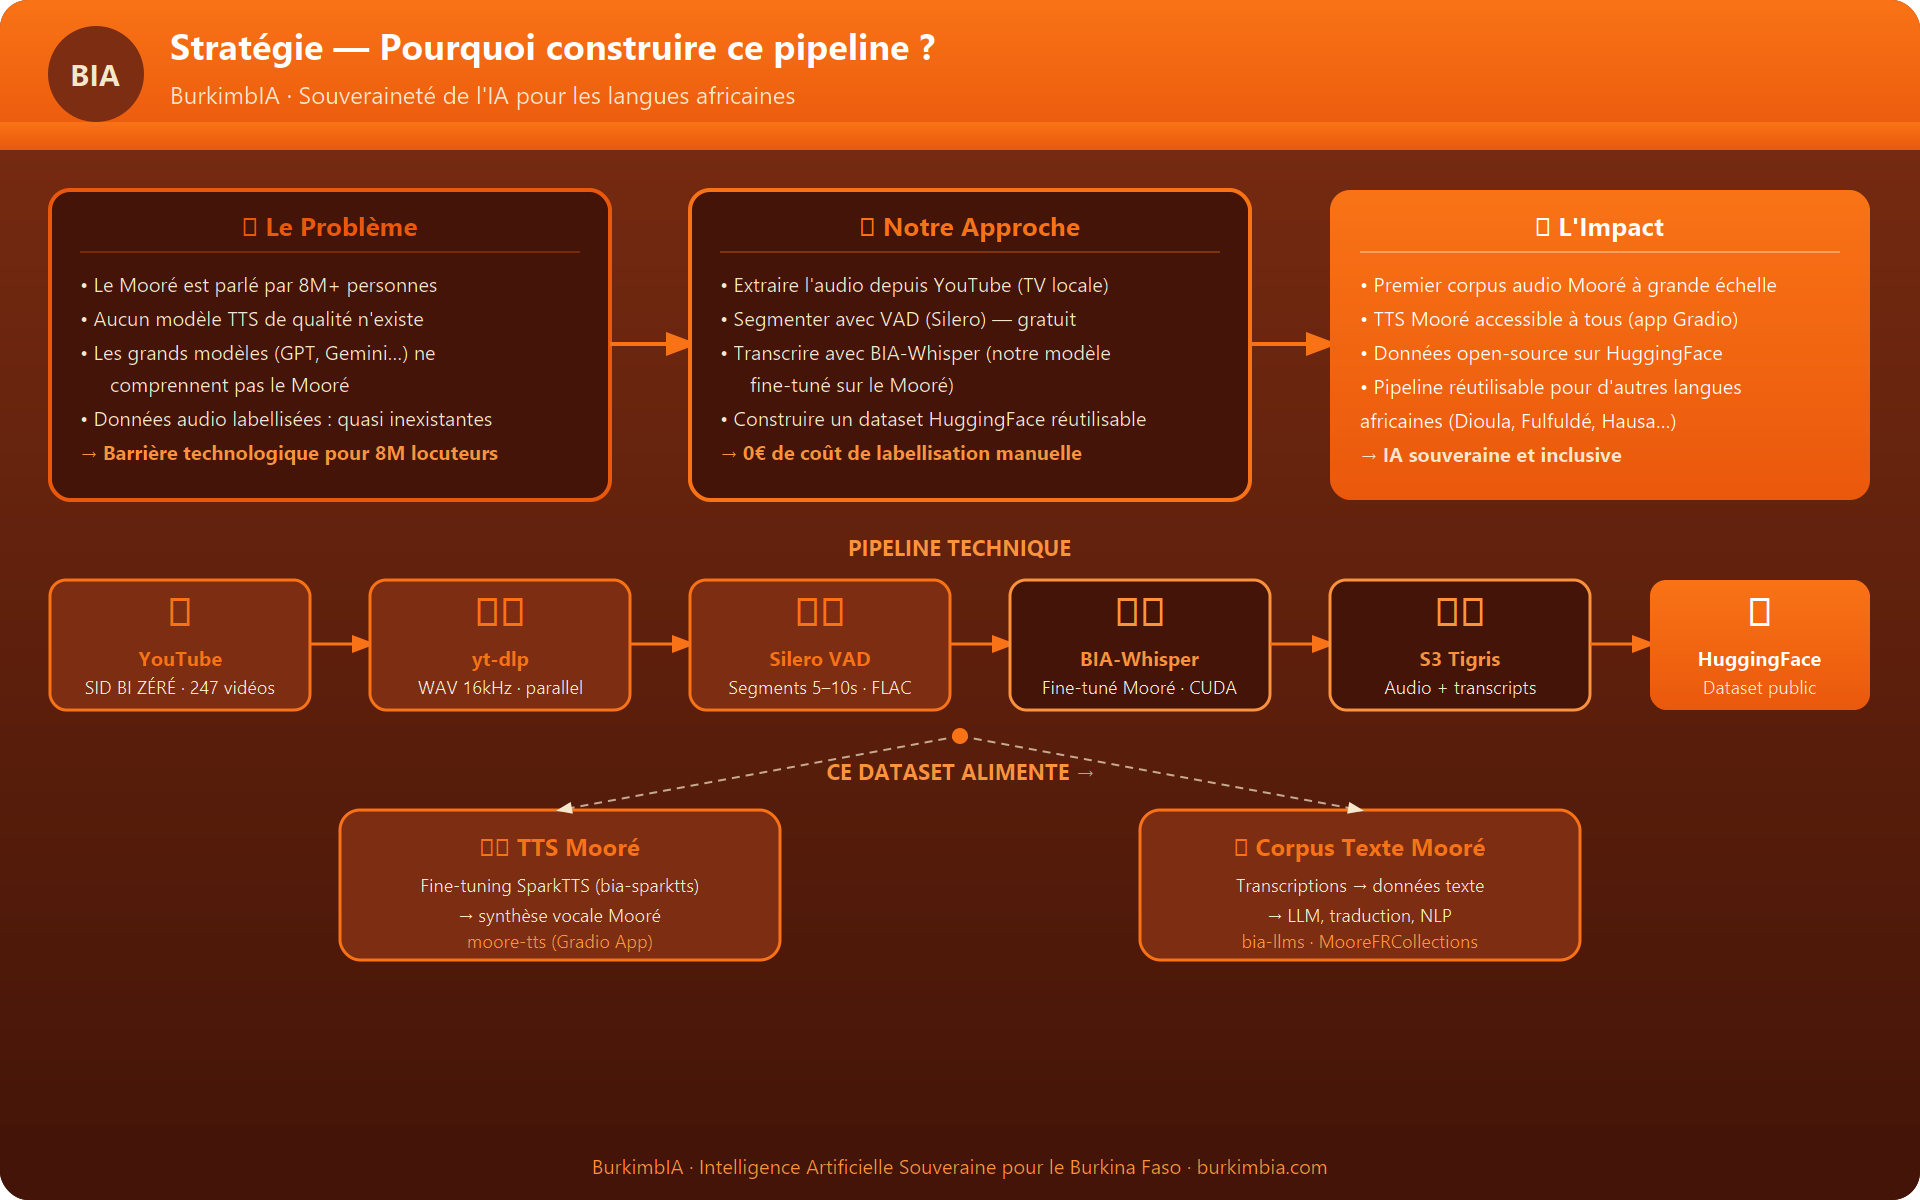
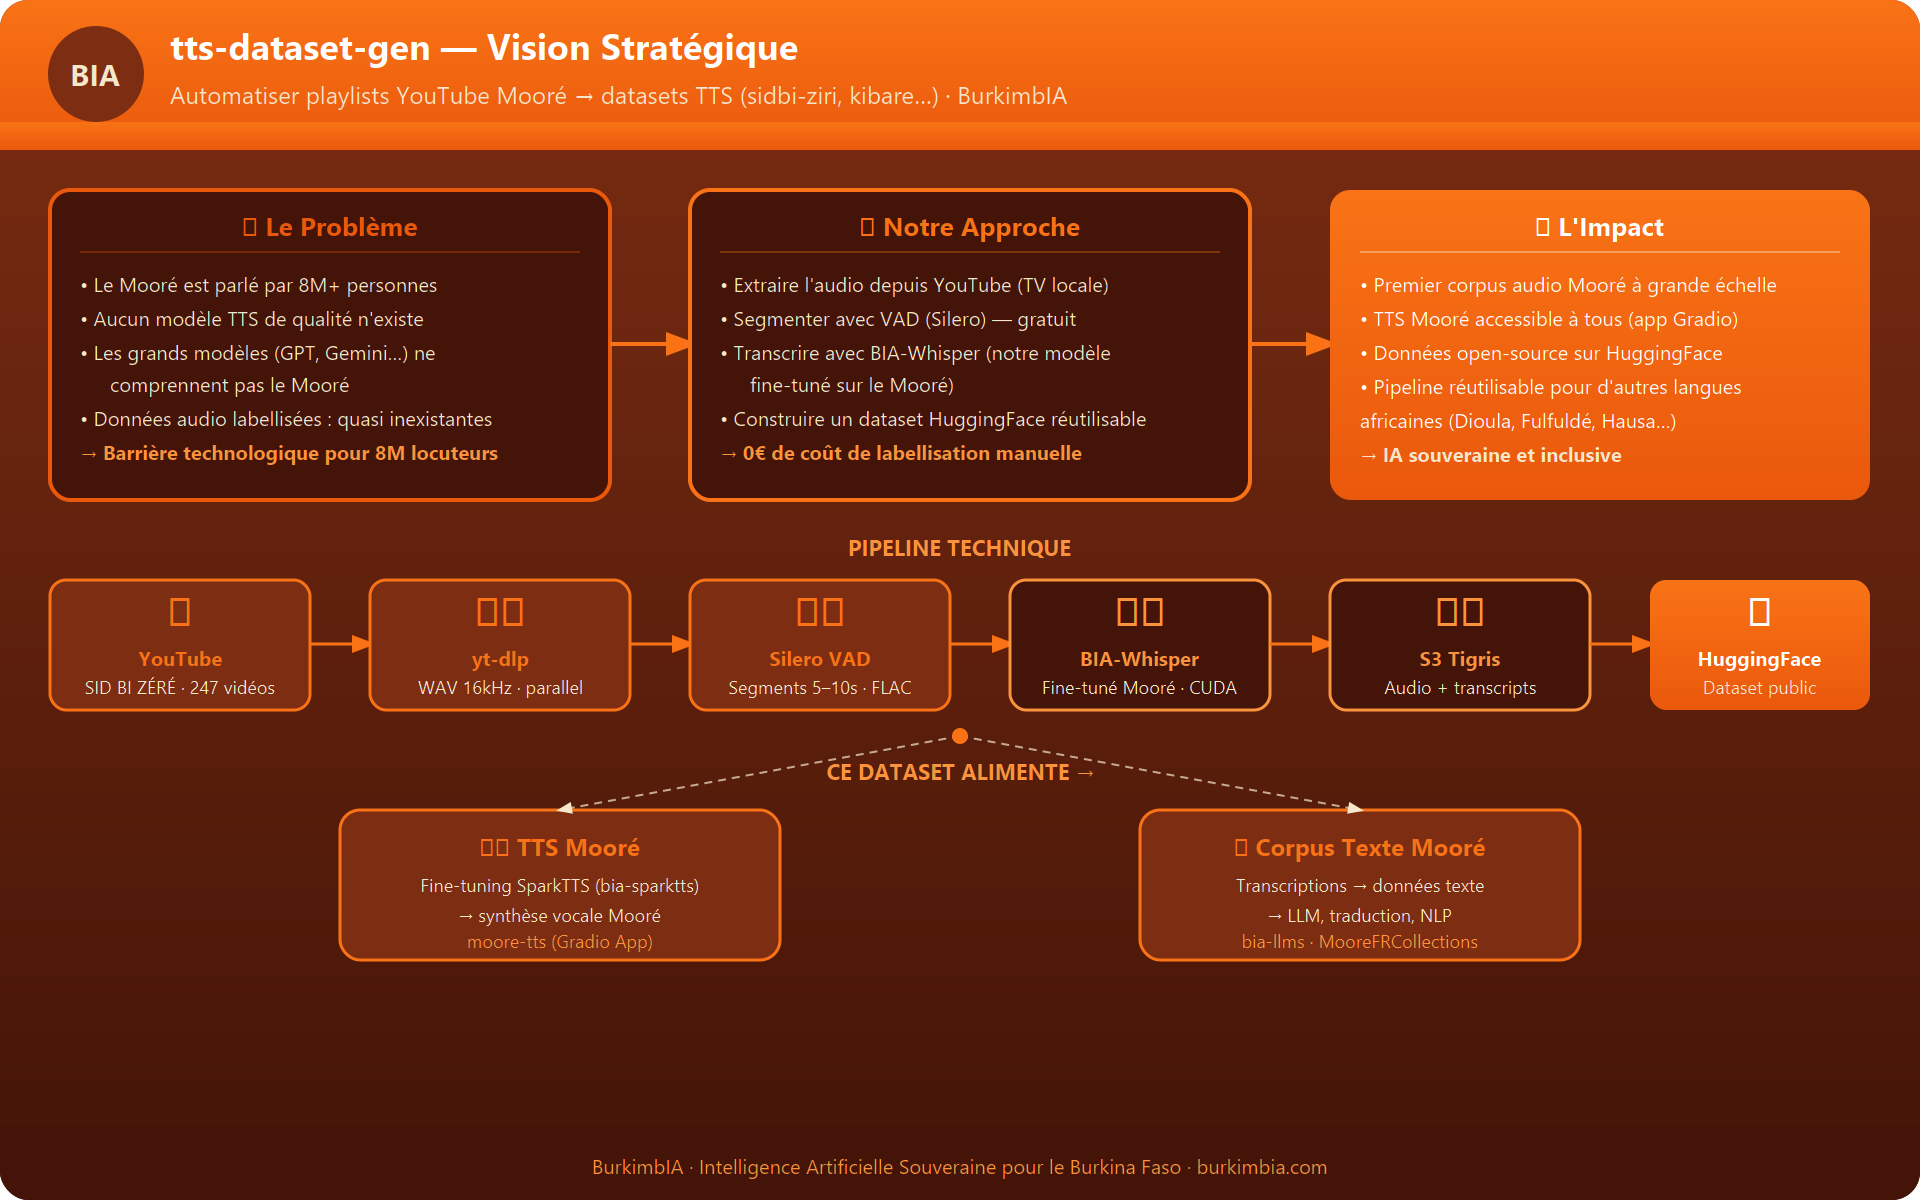
docs: clarify multi-playlist intent, add kibare project, update strategy

Changed region(s): [[0.0938, 0.0308, 0.5, 0.0925], [0.5, 0.0617, 0.5625, 0.0925]]

diff --git a/README.md b/README.md
@@ -1,95 +1,117 @@
-# moore-dataset-gen
+# tts-dataset-gen
 
-Pipeline de génération de dataset audio Mooré à partir de YouTube.
+**Automatisation de la collecte et transcription de playlists YouTube en Mooré pour construire des datasets TTS.**
+
+Ce projet télécharge automatiquement des émissions YouTube en langue Mooré, segmente l'audio, transcrit avec BIA-Whisper et publie un dataset HuggingFace prêt pour le fine-tuning TTS.
 
 ![Strategy](docs/strategy.png)
 
 ![Architecture](docs/architecture.png)
 
-## Vue d'ensemble
+---
 
-Ce projet construit un corpus audio annoté en langue **Mooré** (langue du Burkina Faso) à partir d'émissions YouTube, en 4 étapes :
+## Objectif
+
+Le Mooré est une langue sans ressources numériques suffisantes pour l'IA. Ce pipeline permet de **transformer n'importe quelle playlist YouTube en Mooré en dataset TTS structuré**, de façon automatique et reproductible.
 
 ```
-YouTube → Segmentation VAD → Transcription Whisper → HuggingFace Dataset
+Playlist YouTube (Mooré) → VAD → BIA-Whisper → HuggingFace Dataset → Fine-tuning TTS
 ```
 
-### Projet actif : `sidbi-ziri`
-- **Source** : Émission *SID BI ZÉRÉ* — SAVANE TV
-- **Playlist** : 247 vidéos
-- **Dataset** : `sawadogosalif/sidbi-ziri-dataset`
+---
+
+## Multi-projets
+
+Chaque **projet** correspond à une ou plusieurs playlists YouTube. Il suffit d'ajouter un `config.yaml` dans `projects/` :
+
+```
+projects/
+├── sidbi-ziri/         # Émission SID BI ZÉRÉ — SAVANE TV (247 vidéos)
+│   └── config.yaml
+├── kibare/             # Émission KIBARE — (à venir)
+│   └── config.yaml
+└── mon-projet/         # Toute autre playlist Mooré
+    └── config.yaml
+```
+
+Le même pipeline s'exécute pour chaque projet :
+```bash
+uv run --no-sync python chunk_pipeline.py      projects/kibare/config.yaml
+uv run --no-sync python transcribe_pipeline.py projects/kibare/config.yaml
+uv run --no-sync python create_dataset.py      projects/kibare/config.yaml
+```
 
 ---
 
 ## Structure
 
 ```
-moore-dataset-gen/
-├── chunk_pipeline.py        # Étape 1 & 2 : Download + Segmentation VAD → S3
-├── transcribe_pipeline.py   # Étape 3 : Transcription Whisper → S3
-├── create_dataset.py        # Étape 4 : S3 → HuggingFace Dataset
+tts-dataset-gen/
+├── chunk_pipeline.py        # Étape 1 : Download YouTube + Segmentation VAD → S3
+├── transcribe_pipeline.py   # Étape 2 : Transcription Whisper → S3
+├── create_dataset.py        # Étape 3 : S3 → HuggingFace Dataset
 │
-├── downloader.py            # yt-dlp parallel download
-├── segmenter.py             # Silero VAD segmentation (FLAC, 5–10s)
-├── transcriber.py           # Whisper batch transcription (CUDA)
-├── s3_utils.py              # Tigris S3 helpers
+├── tts_dataset_gen/         # Package core
+│   ├── s3_utils.py          # Tigris S3 helpers
+│   ├── downloader.py        # yt-dlp parallel download
+│   ├── segmenter.py         # Silero VAD (FLAC, 5–10s)
+│   └── transcriber.py       # Whisper batch transcription (CUDA)
 │
 ├── projects/
 │   └── sidbi-ziri/
-│       └── config.yaml      # Config du projet
+│       └── config.yaml
 │
-├── models/                  # Modèles cachés localement
-├── logs/                    # Logs par projet
 ├── docs/
-│   ├── strategy.png         # Pourquoi ce pipeline (vision stratégique)
-│   └── architecture.png     # Diagramme technique du pipeline
+│   ├── strategy.png         # Vision stratégique
+│   └── architecture.png     # Diagramme technique
 │
-├── pyproject.toml
-└── .env                     # Credentials Tigris S3 (non versionné)
+└── pyproject.toml
 ```
 
 ---
 
-## Configuration S3 (Tigris)
+## Créer un nouveau projet
 
+### 1. Créer le config
+
+```yaml
+# projects/kibare/config.yaml
+project:
+  name: "kibare"
+  language: "moore"
+
+youtube:
+  playlist_url: "https://www.youtube.com/playlist?list=..."
+  max_workers: 3
+
+segmentation:
+  min_duration: 5.0
+  max_duration: 10.0
+
+transcription:
+  model_id: "burkimbia/BIA-WHISPER-LARGE-SACHI_V2"
+  batch_size: 8
+  device: "auto"
+
+dataset:
+  hf_repo: "sawadogosalif/kibare-dataset"
+
+bucket:
+  name: "burkimbia"
+  endpoint: "https://fly.storage.tigris.dev"
 ```
-Bucket : burkimbia
-Endpoint : https://fly.storage.tigris.dev
 
-sidbi-ziri/
-├── chunks/{video_id}/*.flac        # Segments audio VAD
-└── transcripts/{video_id}.jsonl    # Transcriptions Whisper
-```
-
----
-
-## Lancer le pipeline
-
-### Prérequis
+### 2. Lancer le pipeline
 
 ```bash
-uv sync  # installe les dépendances (CUDA torch via index pytorch-cu124)
-cp path/to/.env .env  # credentials AWS/Tigris
-```
+# Téléchargement + segmentation VAD
+uv run --no-sync python chunk_pipeline.py projects/kibare/config.yaml
 
-### Étape 1 — Download + Segmentation
+# Transcription (GPU recommandé)
+uv run --no-sync python transcribe_pipeline.py projects/kibare/config.yaml
 
-```bash
-uv run --no-sync python chunk_pipeline.py projects/sidbi-ziri/config.yaml
-```
-
-### Étape 2 — Transcription (GPU requis)
-
-```bash
-uv run --no-sync python transcribe_pipeline.py projects/sidbi-ziri/config.yaml
-```
-
-> **Note GPU** : Le pipeline utilise greedy decoding (`num_beams=1`, `max_new_tokens=444`) pour tenir dans 8GB VRAM. Beam search par défaut causait des OOM sur RTX 4060.
-
-### Étape 3 — Push HuggingFace
-
-```bash
-uv run --no-sync python create_dataset.py projects/sidbi-ziri/config.yaml
+# Push HuggingFace
+uv run --no-sync python create_dataset.py projects/kibare/config.yaml
 ```
 
 ---
@@ -103,22 +125,32 @@ uv run --no-sync python create_dataset.py projects/sidbi-ziri/config.yaml
 | Language tag | `hausa` (proxy pour Mooré) |
 | Decoding | Greedy (`num_beams=1`) |
 | batch_size | 8 |
-| max_new_tokens | 444 (= 448 - 4 tokens spéciaux) |
+| max_new_tokens | 444 |
 
 ---
 
-## Format des transcriptions (JSONL)
+## S3 (Tigris)
 
-```json
-{"path": "s3://burkimbia/sidbi-ziri/chunks/VIDEO_ID/seg_001.flac", "duration": 7.4, "text": "...", "language": "hausa"}
+```
+burkimbia/
+└── {project_name}/
+    ├── chunks/{video_id}/*.flac        # Segments audio VAD
+    └── transcripts/{video_id}.jsonl    # Transcriptions Whisper
 ```
 
 ---
 
-## État actuel
+## Format JSONL
 
-| Étape | Statut |
-|-------|--------|
-| Download + Segmentation | ✅ 247/247 vidéos |
-| Transcription | 🔄 64/247 (183 restantes, ~10h) |
-| Dataset HuggingFace | ⏳ En attente |
+```json
+{"path": "s3://burkimbia/sidbi-ziri/chunks/VIDEO_ID/seg_001.flac", "duration": 7.4, "text": "yãmb yibar...", "language": "hausa"}
+```
+
+---
+
+## Projets actifs
+
+| Projet | Source | Vidéos | Statut |
+|--------|--------|--------|--------|
+| `sidbi-ziri` | SID BI ZÉRÉ — SAVANE TV | 247 | 🔄 Transcription en cours |
+| `kibare` | KIBARE | — | ⏳ À lancer |
